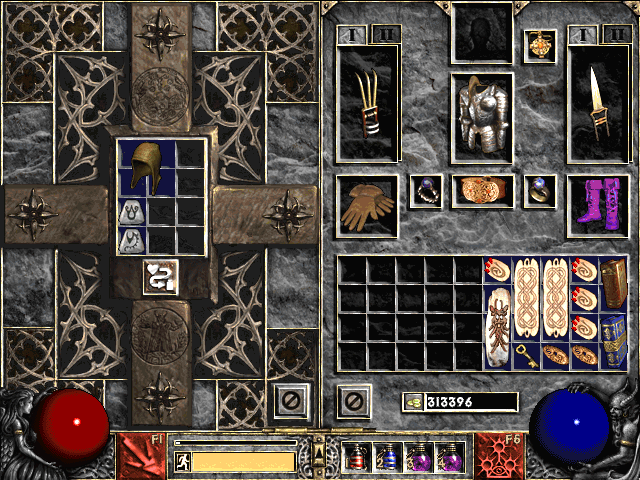
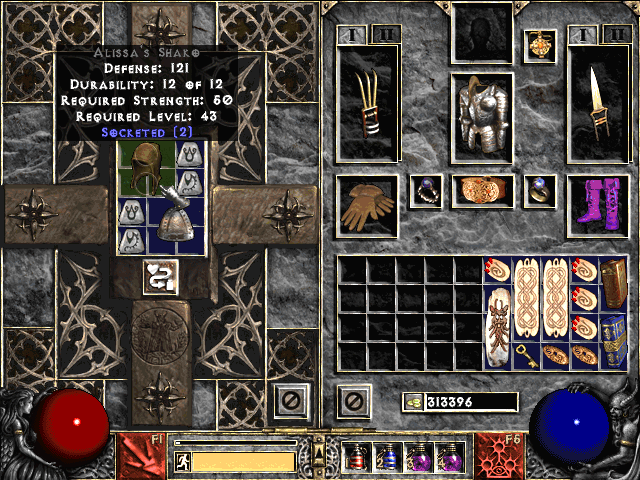
feat(socket-science): Debugging in emptying of socketed items.
Also overhauled the rune-generation function from the GUI to
now add to existing items rather than overwriting them.

Changed region(s): [[0.0625, 0.0938, 0.375, 0.5312]]

diff --git a/src/horazons_folly.py b/src/horazons_folly.py
@@ -1168,7 +1168,19 @@ class Item:
 
     @property
     def n_sockets(self) -> Optional[int]:
-        return self.get_extended_item_int_value(E_ExtProperty.EP_SOCKETS)
+        if self.is_analytical:
+            return None
+        ns = self.get_extended_item_int_value(E_ExtProperty.EP_SOCKETS)
+        return ns if ns else 0
+
+    @property
+    def n_sockets_occupied(self) -> Optional[int]:
+        if self.is_analytical:
+            return None
+        qs = self.get_extended_item_int_value(E_ExtProperty.EP_QUEST_SOCKETS)
+        if self.item_class == E_ItemClass.IC_QUEST_ITEMS:
+            qs = qs % 2
+        return qs
 
     @property
     def is_socketable(self) -> Optional[bool]:
@@ -1480,6 +1492,7 @@ class Item:
 
     def get_index1(self, index0):
         """Tool function. Given an index0, pointing at a b'JM' item starting code.
+        :param index0: Some item starting index pointing at a 'JM'. Not necessarily the 'JM' for this self.
         :return the index1 that goes with it. Meaning: The item lives in self.data[index0:index1].
           This does not include items that may be socketed into it."""
         if self.data[index0:(index0+2)] != b'JM':
@@ -1488,17 +1501,17 @@ class Item:
         index1 = index0 + 14  # << 112 bit would mean a compact item. Compare bit 37.
         if len(self.data) < index1 or self.data[(index0+4):(index0+6)] == b'JM':
             return index0 + 4  # << Section marker pseudo-item.
-        bm = bytes2bitmap(self.data[index0:index1])
-        is_compact = True if get_range_from_bitmap(bm, 37, 38) else False
+        item_proto = Item(self.data[index0:index1], 0, 14)
+        is_compact = item_proto.get_item_property(E_ItemBitProperties.IP_COMPACT)
         if is_compact:
             return index1
-        index_sufficient = len(re.split(b'JM', self.data[index0+2:],maxsplit=1)[0]) + 2
-        bm = bytes2bitmap(self.data[index0:index_sufficient])
+        index_sufficient = len(re.split(b'JM', self.data[index0+2:],maxsplit=1)[0]) + 2 + index0
+        bm_extended = bytes2bitmap(self.data[index0:index_sufficient])
         # A compact item really has only 106 bit. The rest to the 14 bytes is padding.
-        finds = re.findall('.'*106 + ".*?111111111", bm[::-1])  # type: List[str]
+        finds = re.findall('.'*106 + ".*?111111111", bm_extended[::-1])  # type: List[str]
         if not finds:
             _log.warning(f"Non-compact item without extended section terminator encountered at index0 == {index0}.")
-            return index1
+            return index1  # TODO: Hier war ich. Debug Double Item desocket.
         index1 = index0 + ceil(len(finds[0]) / 8.0)
         return index1
 
@@ -1517,11 +1530,11 @@ class Item:
         if self.is_analytical:
             return None
         res = [self]  # type: List[Item]
-        n_sockets = self.n_sockets
-        if not n_sockets:
+        n_sockets_occupied = self.n_sockets_occupied
+        if not n_sockets_occupied:
             return res
         item = self
-        for j in range(n_sockets):
+        for j in range(n_sockets_occupied):
             item = item.get_next_item()
             if item.item_parent == E_ItemParent.IP_ITEM:
                 res.append(item)
@@ -1587,7 +1600,7 @@ class Item:
             bm = bytes2bitmap(self.data_item)[::-1]
             bl = len(bm)
 
-            classification = f"{self.item_grade}, armor: {self.is_armor}, weapon: {self.is_weapon}, sockets: {self.n_sockets}, stack: {self.is_stack}, set: {self.is_set}"
+            classification = f"{self.item_grade}, armor: {self.is_armor}, weapon: {self.is_weapon}, sockets: {self.n_sockets_occupied}/{self.n_sockets}, stack: {self.is_stack}, set: {self.is_set}"
             known_mods_str = self.known_mods_to_str()
             if known_mods_str:
                 known_mods_str += "\n"
@@ -2137,7 +2150,7 @@ this page was an excellent source for that: https://github.com/WalterCouto/D2CE/
         index_start = Item(self.data).get_block_index()[E_ItemBlock.IB_PLAYER][0]
         self.data = self.data[0:index_start] + items + self.data[index_start:]
         self.set_item_count(E_ItemBlock.IB_PLAYER_HD, self.get_item_count_player(True) + count)
-        print(f"Attempting to add {count} new items to the player's inventory.")
+        # print(f"Attempting to add {count} new items to the player's inventory.")
 
     def find_space_for_item(self, item: Item, storage: E_ItemStorage, smap: Optional[str] = None) -> Optional[Tuple[int,int]]:
         """:returns the coordinates of the top left corner for the item where it would fit."""
@@ -2648,9 +2661,19 @@ class Horadric:
             print(f"Dropped {len(items)} items from the Horadric cube.")
 
     def empty_sockets_horadric(self, data: Data):
-        items = Item(data.data).get_cube_contents()  # type: List[Item]
-        for item in items:
-            data.separate_socketed_items_from_item(item)
+        # [Note: A bit convoluted. This function alters item locations and hence item indices are obsoleted.
+        #  To compensate, get_cube_contents() is called anew on each iteration.]
+        c = 0
+        found_a_target = True
+        while (c < 6) and found_a_target:
+            c = c + 1
+            items = Item(data.data).get_cube_contents()  # type: List[Item]
+            found_a_target = False
+            for item in items:
+                if item.n_sockets_occupied:
+                    data.separate_socketed_items_from_item(item)
+                    found_a_target = True
+                    break
         if self.is_standalone:
             data.update_all()
             data.save2disk()

diff --git a/src/horadric_exchange.py b/src/horadric_exchange.py
@@ -469,8 +469,9 @@ February 2025, Markus-H. Koch ( https://github.com/kochsoft/diablo2 )"""
         data = self.verify_hero()
         if data is None:
             return
-        self.horadric_horazon.drop_horadric(data)
-        data.add_items_to_player(int.to_bytes(len(items)) + b''.join([item.data_item for item in items]))
+        # self.horadric_horazon.drop_horadric(data)
+        data.place_items_into_storage_maps(items)
+        # data.add_items_to_player(int.to_bytes(len(items)) + b''.join([item.data_item for item in items]))
         self.ta_insert_character_data(self.horadric_horazon, data.pfname, self.ta_hero)
 
     @staticmethod
@@ -719,7 +720,7 @@ Beware!"""
         self.entry_runic_cube.grid(row=5, column=1, columnspan=4, sticky='ew')
         self.button_runic_cube = tk.Button(self.tab2, text='Runes to Cube', command=lambda: self.runic_cube(var_runic_cube.get()), width=10, height=1, bg='#009999')
         self.button_runic_cube.grid(row=5, column=0)
-        Hovertip(self.button_runic_cube, 'Write a comma-separated list of up to 12 rune names and/or gem codes, /^[tasredb][0-4]$/ (bone=skull), and click this. Will replace your cube contents with these socketables.')
+        Hovertip(self.button_runic_cube, 'Write a comma-separated list of up to 12 rune names and/or gem codes, /^[tasredb][0-4]$/ (bone=skull), and click this. Will add these socketables to inventory (if there is space).')
 
         var_skills = tk.IntVar()
         self.entry_boost_skills = tk.Entry(self.tab2, textvariable=var_skills)
